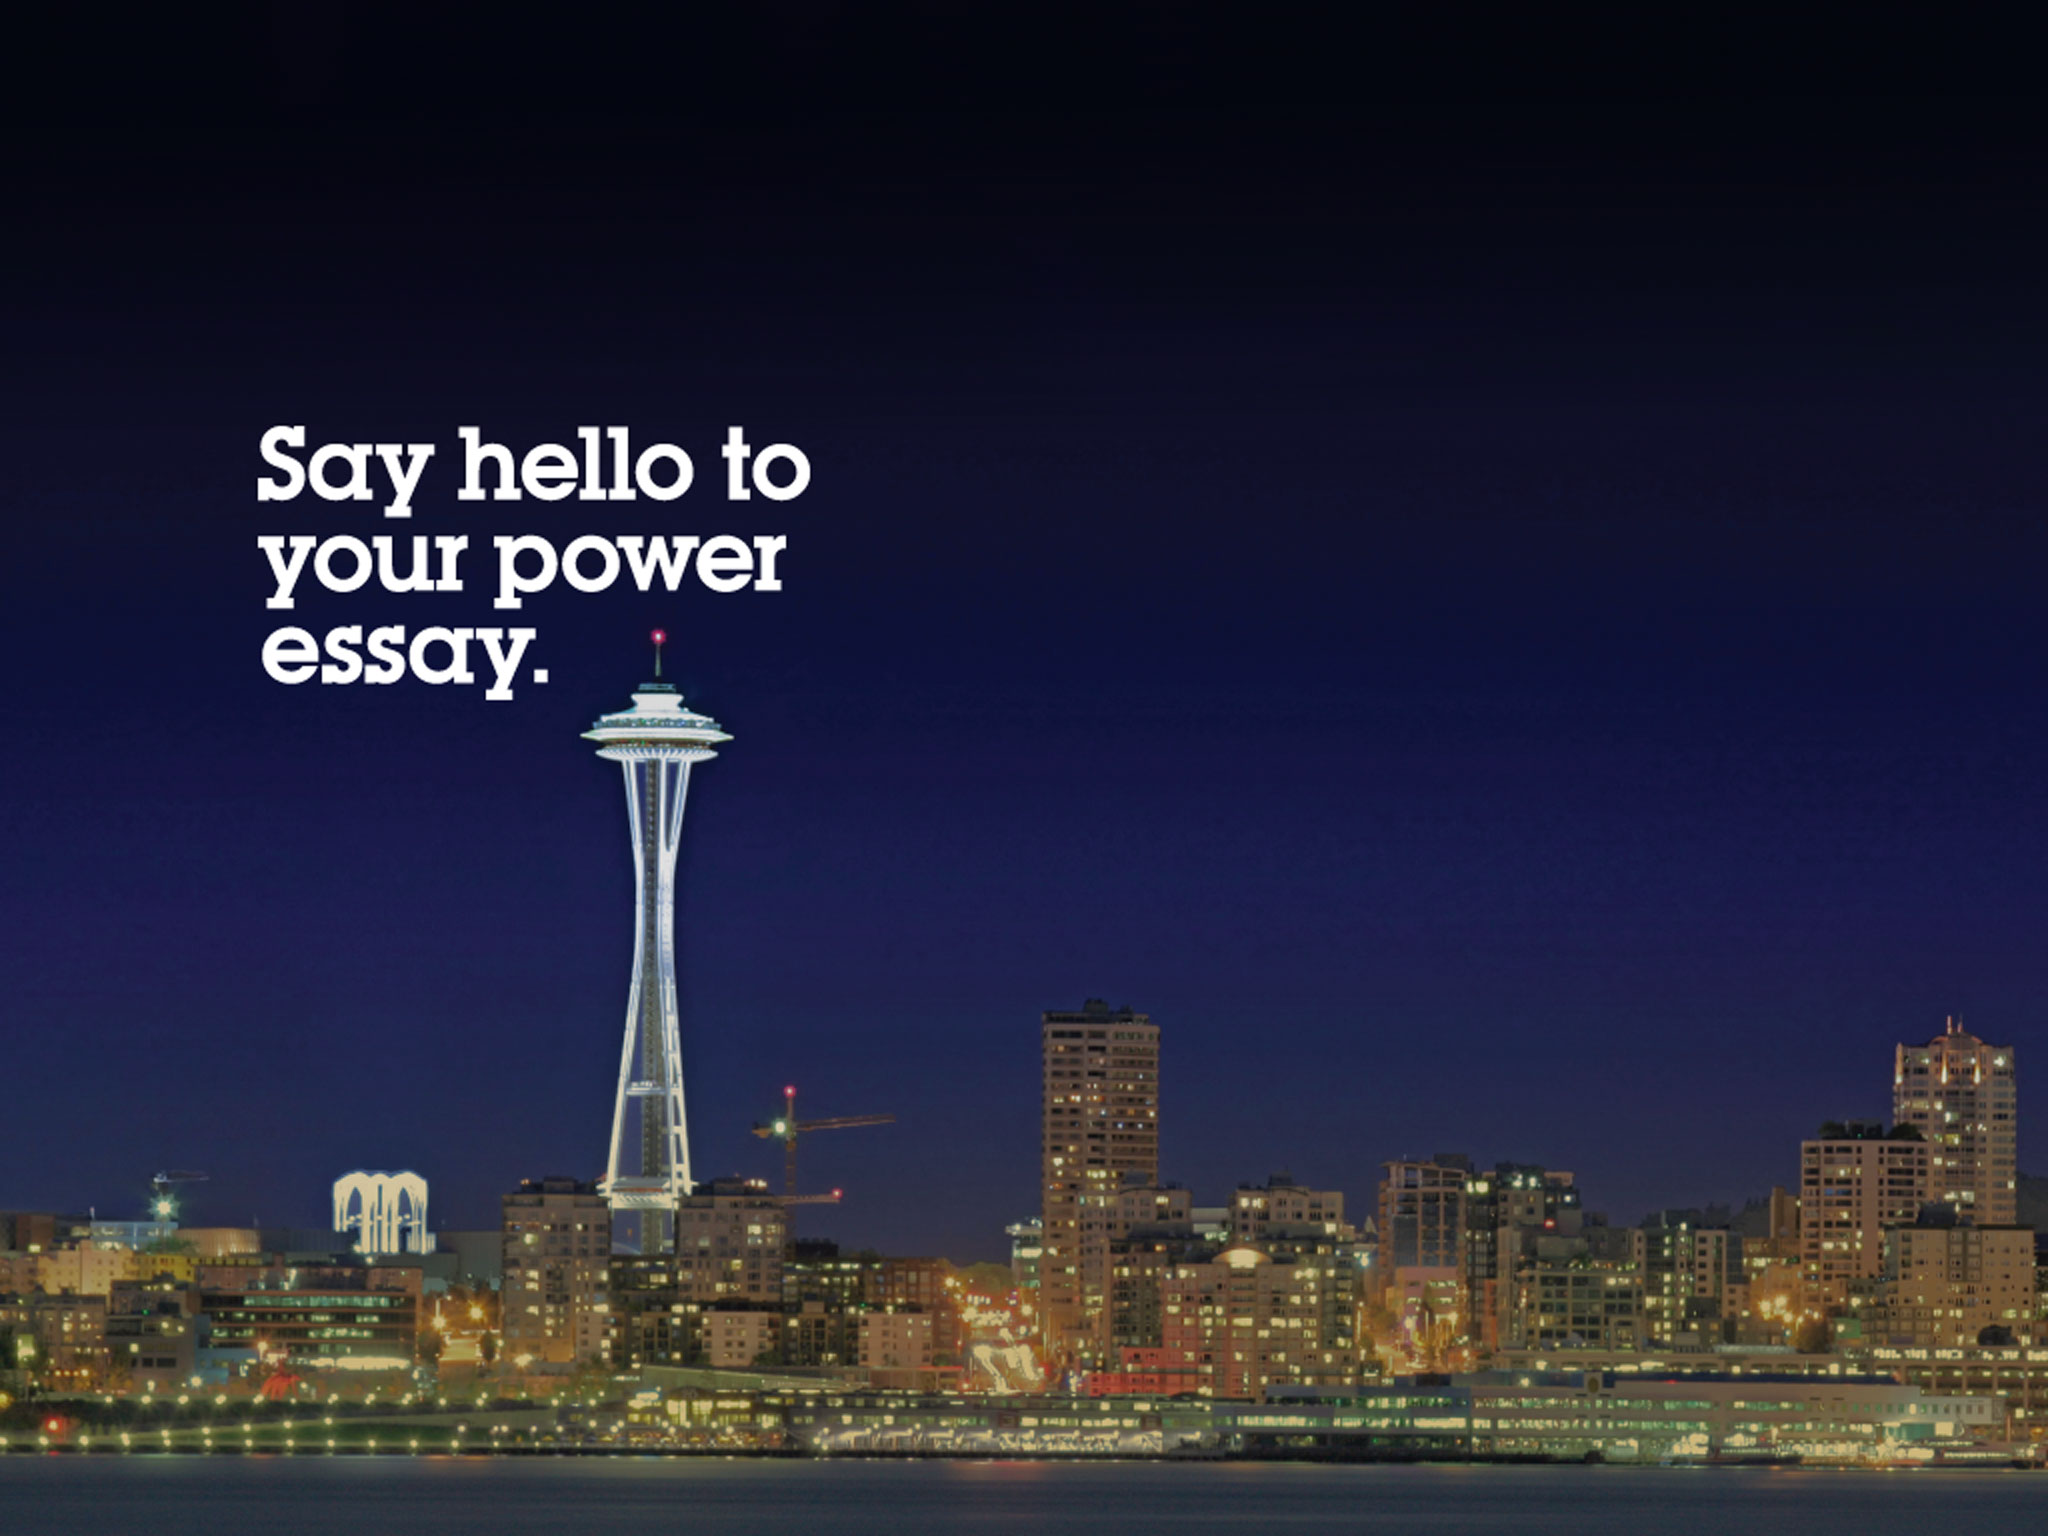
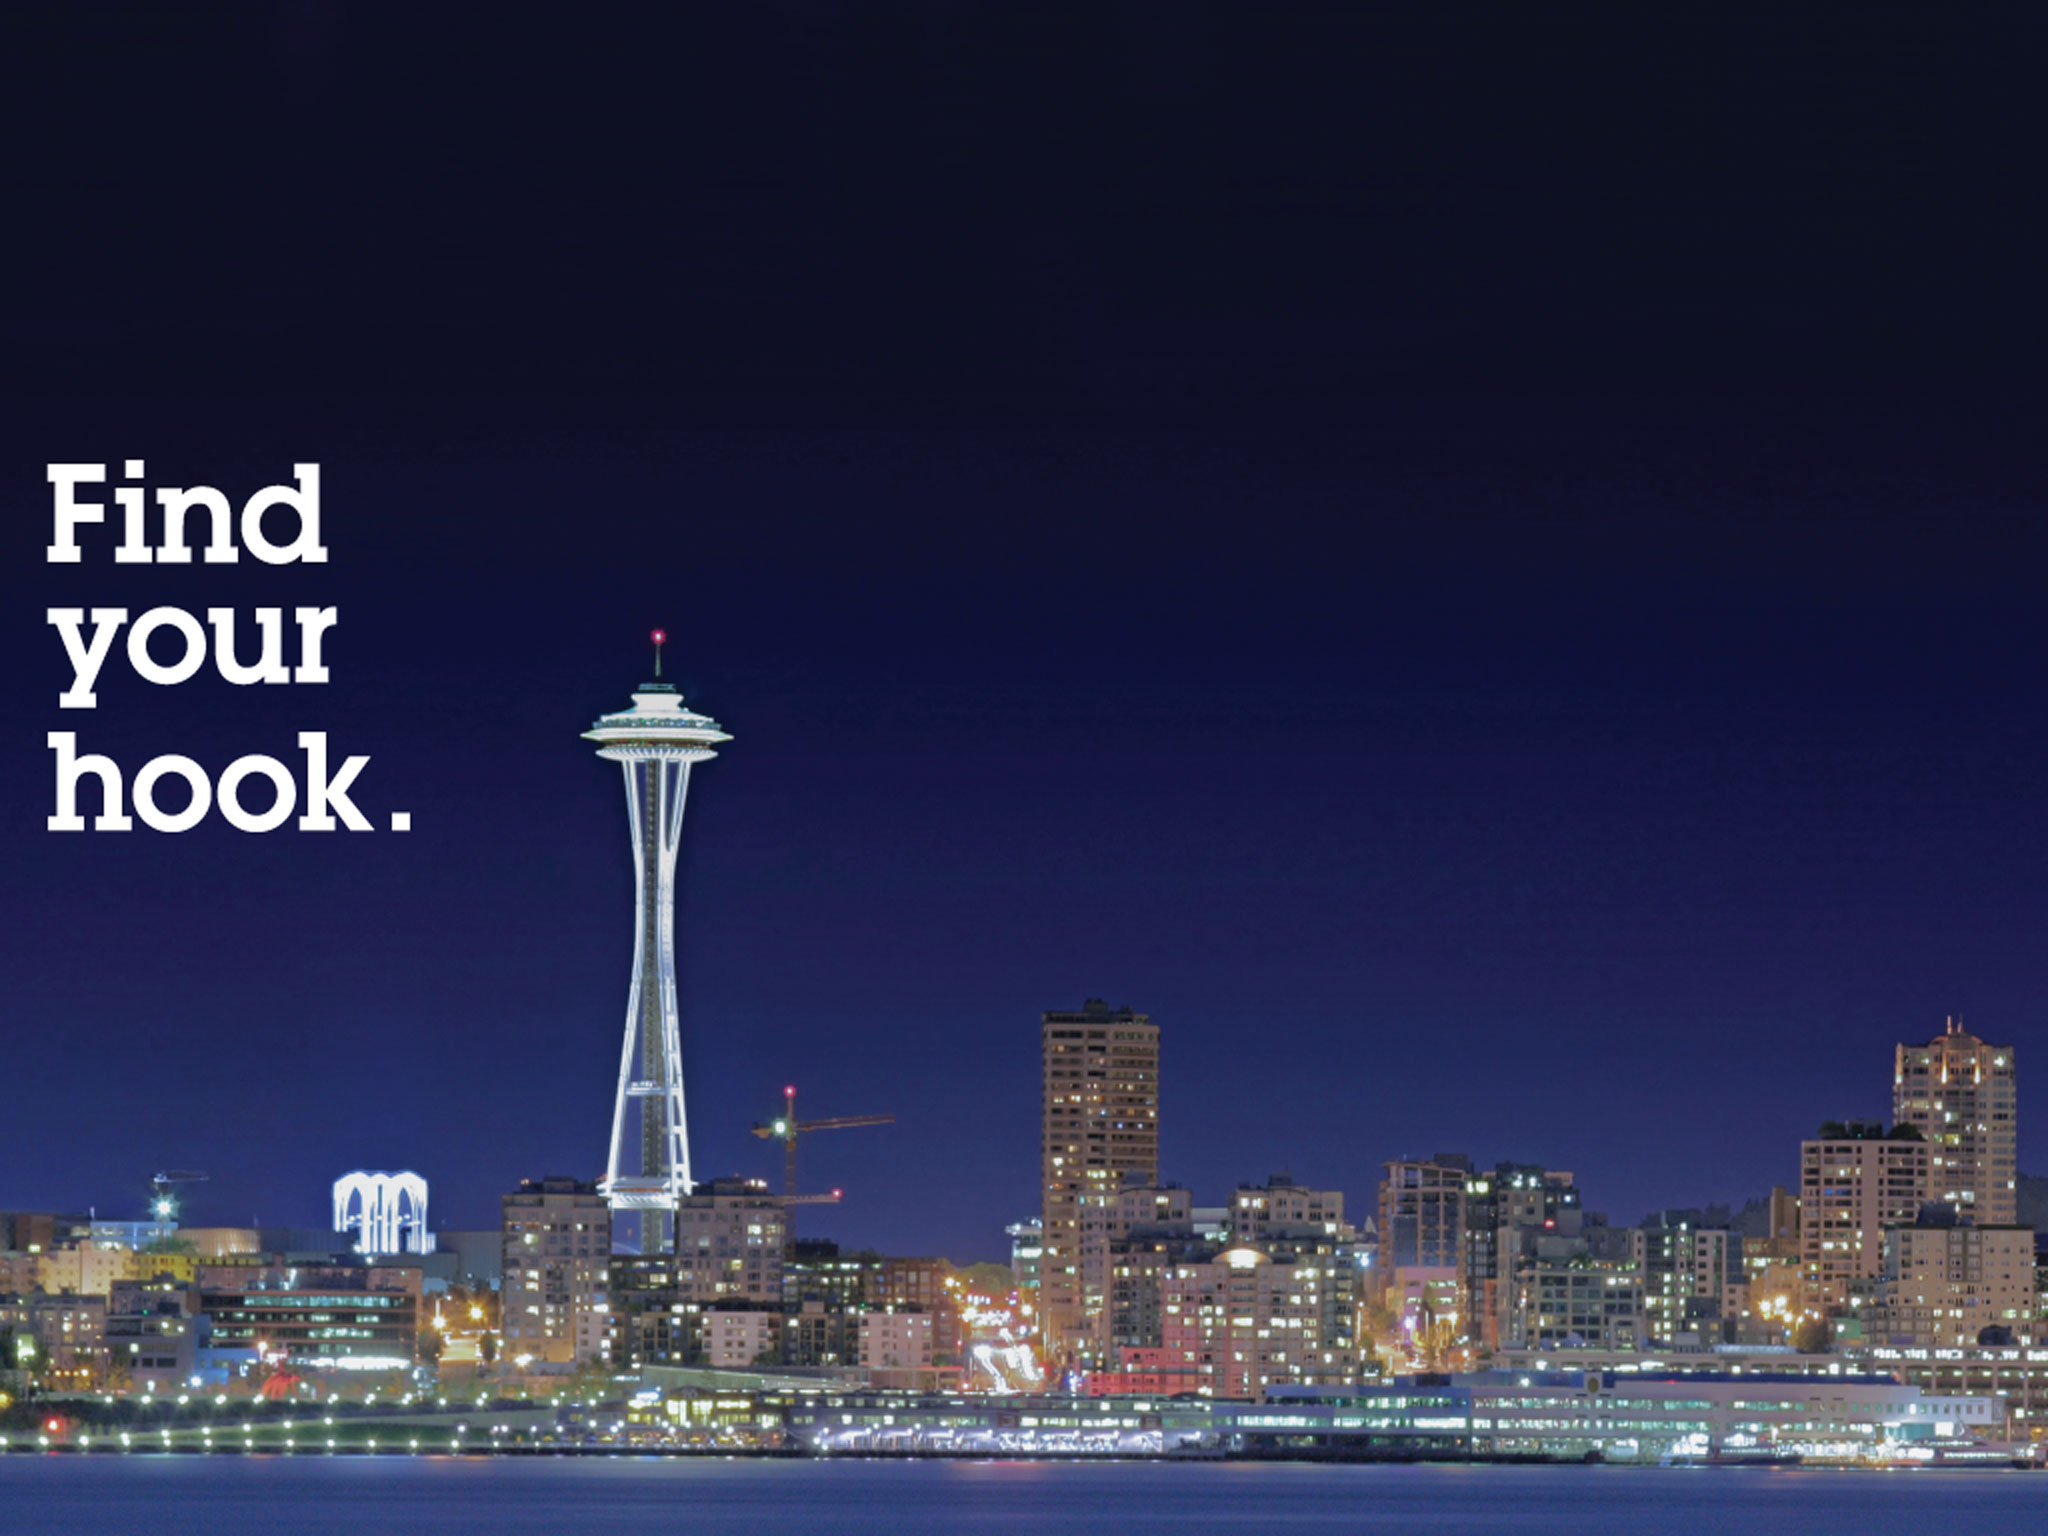
Updates

Changed region(s): [[0.0, 0.6562, 1.0, 1.0], [0.0, 0.2812, 0.4062, 0.5625]]

diff --git a/app/assets/stylesheets/bootstrap_and_overrides.css.scss b/app/assets/stylesheets/bootstrap_and_overrides.css.scss
@@ -49,7 +49,7 @@ ul.nav > li.login-link {
   }
   
   > li:first-child {
-    margin-left: 70px;
+    margin-left: 105px;
   }    
 }
 
@@ -64,9 +64,7 @@ ul.nav.red {
 ul.nav.tan,
 ul.nav.red {
   > li {       
-    > a {      
-      text-shadow: 0px 1px 0px rgba(255,255,255,1);
-      
+    > a {
       &:hover {
         color: inherit;
       }
@@ -78,7 +76,7 @@ ul.nav.green,
 ul.nav.blue {
   > li {
     background: transparent;    
-    font-weight: bold;    
+    font-weight: bold;      
   }
 }
 
@@ -207,18 +205,21 @@ p.price {
 
 .about-us h1 {  
   text-indent: -999px;
-  background: url(about-us-title.png) no-repeat  
+  background: url(about-us-title.png) no-repeat; 
 }
 
 .bootcamp h1 {
   text-indent: -999px;
-  background: url(bootcamp-title.png) no-repeat
+  background: url(common-application.png) no-repeat top left,
+              url(bootcamp-title.png) no-repeat bottom left;
+  height: 150px;
 }
 
 .essay h1 {
   text-indent: -999px;
-  background: url(essay-title.png) no-repeat;
-  height: 100px;
+  background: url(common-application.png) no-repeat top left,
+              url(essay-title.png) no-repeat bottom left;              
+  height: 175px;
 }
 
 .faq h1 {
@@ -229,8 +230,9 @@ p.price {
 
 .pricing h1 {
   text-indent: -999px;
-  background: url(program-title.png) no-repeat; 
-  height: 100px;
+  background: url(common-application-dark.png) no-repeat top left,
+              url(program-title.png) no-repeat top 20%; 
+  height: 175px;
 }
 
 .pricing-heading h1 {
@@ -349,6 +351,12 @@ header > .background-images > img:first-child {
   position: absolute;
   top:20px;
   right:0;
+}
+
+.video-nancy,
+.video-alicia,
+.video-masaru {
+  margin-bottom: 20px;
 }
 
 .marketing .banner a{
@@ -619,7 +627,7 @@ p.price {
 
 .pricing {
   margin-left: 155px;
-  color: #fff;
+  color: #1b1d4f !important;
 }
 
 .essay h1, .pricing-heading h1, .faq h1, .bootcamp h1, .about-us h1 {
@@ -638,6 +646,7 @@ p.price {
 
 .pricing h2 {
   margin-top: 0px;
+  color: #1b1d4f !important;
 }
 
 .essay p, .pricing p, .faq p, .bootcamp p, .about-us p {
@@ -925,6 +934,7 @@ section.essay .note, .note{
   background-size: cover !important;
   position: relative;
   top: -30px;
+  margin-left: -70px !important;
 }
 
 .brand.invert {
@@ -933,6 +943,7 @@ section.essay .note, .note{
   height: 65px !important;
   width: 235px !important;
   background-size: cover !important;
+  margin-left: -70px !important;
 }
 
 @media (max-width: 767px) {

diff --git a/app/assets/javascripts/marketing.js b/app/assets/javascripts/marketing.js
@@ -1,4 +1,4 @@
-// (function() {
+(function() {
   var Slider = {
     sliders: ['tan', 'green', 'red', 'blue'],
     active_slider: 'tan',
@@ -75,6 +75,20 @@
         // Skip the next slide
         _this.skip = true;
 
+        // Stop any playing videos
+        var i = 0,
+            video = $('video');
+
+        video.each(function() {
+          var vid = $(video).get(i);          
+
+          if (vid.paused === false) {            
+            vid.pause();
+          }
+
+          i++;
+        });
+
         _this.move_background(index);
       });
                  
@@ -146,6 +160,9 @@
         left: _this.intTime
       }, 1000);
 
+      // Set active background
+      _this.active_slider = _this.sliders[_this.background];
+
       _this.update_background_elements(_this.sliders[_this.background], _this.background);      
     },
 
@@ -183,12 +200,15 @@
 
       // Video display with 1 second delay
       window.setTimeout(function() {                
-        if (_this.background === 3) {
+        if (_this.background === 0) {
           $('video#video-green').show();
-          $('a.brand').addClass('invert');
+          $('a.brand').removeClass('invert');          
         } else if (_this.background === 1) {
           $('video#video-blue').show();
           $('a.brand').addClass('invert');
+        } else if (_this.background === 3) {
+          $('a.brand').addClass('invert');
+          $('video#video-red').show();
         } else {
           $('a.brand').removeClass('invert');
         }
@@ -209,4 +229,4 @@
       Slider.init();
     }
   });
-// })();
+})();

diff --git a/app/assets/stylesheets/marketing.css.scss b/app/assets/stylesheets/marketing.css.scss
@@ -143,15 +143,25 @@ p.price {
 	right:0;
 }
 
+video {  
+  background:#000;
+}
+
 video#video-green {
   position:relative;
-  left: 35%;
-  top: 115px;
+  left: -10%;
+  top: 100px;
 }
   
 video#video-blue {
   position: relative;
-  left: 0%;
+  left: -3%;
+  top: 30px;
+}
+
+video#video-red {
+  position: relative;
+  left: 35%;
   top: 50px;
 }
 
@@ -425,7 +435,7 @@ p.price {
 .contact-info {
   color: #fff;
   font-family: 'Karla', sans-serif;
-  margin-top: 180px;
+  margin-top: 18px;
   font-weight: bold;
 }
 

diff --git a/app/assets/stylesheets/application.css.scss b/app/assets/stylesheets/application.css.scss
@@ -65,12 +65,6 @@
   box-shadow: 0 1px 2px rgba(0,0,0,.15);
 }
 
-.login-link {
-  position: relative;  
-  left: 60px;
-  top: 0;
-}
-
 .slider-controls {
   ul {
     position: relative;
